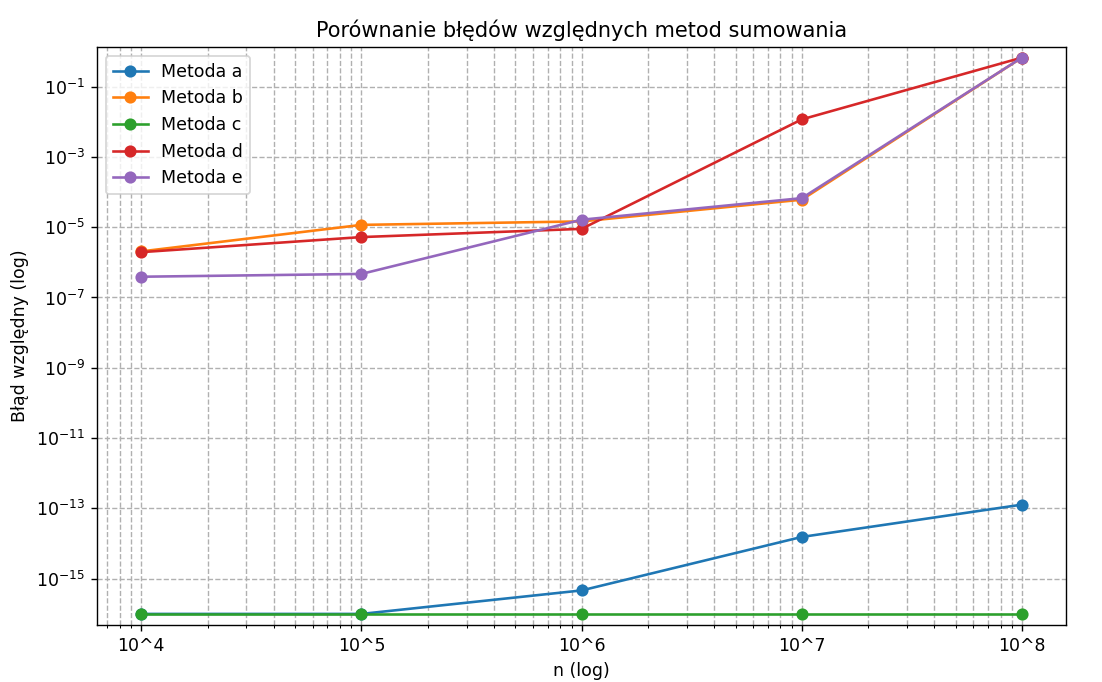
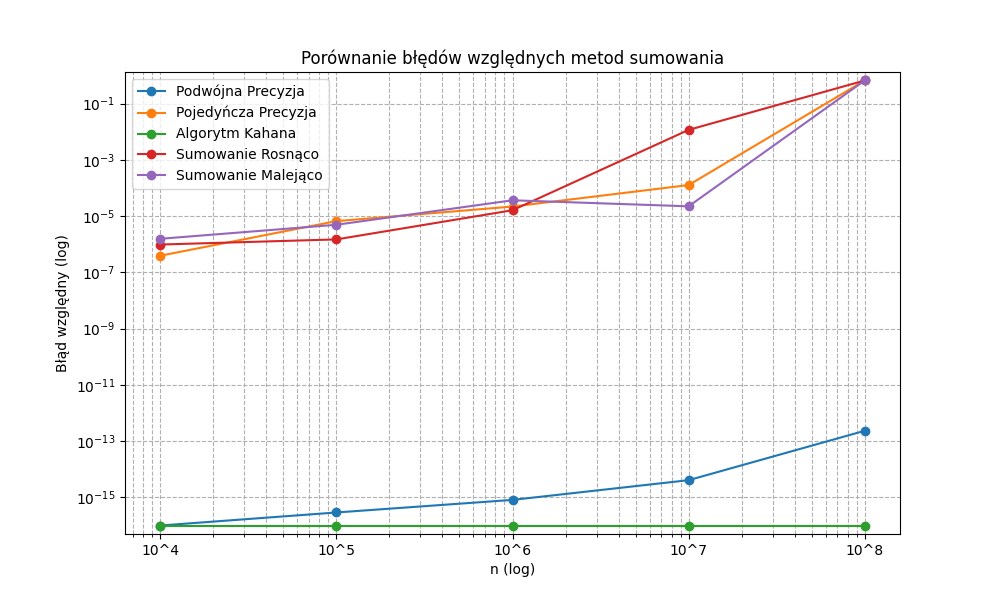
Added descriptions for graph in exe. 2

diff --git a/solutions/lab1/different_sums.py b/solutions/lab1/different_sums.py
@@ -45,7 +45,7 @@ max_n = n_array[-1]
 
 numbers = generate_numbers(max_n)
 
-methods = ['a', 'b', 'c', 'd', 'e']
+methods = ['Podwójna Precyzja', 'Pojedyńcza Precyzja', 'Algorytm Kahana', 'Sumowanie Rosnąco', 'Sumowanie Malejąco']
 errors = {method: [] for method in methods}
 
 for n in n_array:
@@ -54,31 +54,31 @@ for n in n_array:
     print("Generated numbers")
 
     print("Generating task a...")
-    errors['a'].append(safe_sum(abs(sum_double_precision(subset) - true_sum) / true_sum))
+    errors['Podwójna Precyzja'].append(safe_sum(abs(sum_double_precision(subset) - true_sum) / true_sum))
     print("Done...")
 
     print("Generating task b...")
-    errors['b'].append(safe_sum(abs(sum_single_precision(subset) - true_sum) / true_sum))
+    errors['Pojedyńcza Precyzja'].append(safe_sum(abs(sum_single_precision(subset) - true_sum) / true_sum))
     print("Done...")
 
     print("Generating task c...")
     kahan_error = safe_sum(abs(sum_kahan_alg(subset) - true_sum) / true_sum)
-    errors['c'].append(kahan_error if kahan_error > 0 else 1e-20)
+    errors['Algorytm Kahana'].append(kahan_error if kahan_error > 0 else 1e-20)
     print("Done...")
 
     print("Generating task d...")
-    errors['d'].append(safe_sum(abs(sum_rising(subset) - true_sum) / true_sum))
+    errors['Sumowanie Rosnąco'].append(safe_sum(abs(sum_rising(subset) - true_sum) / true_sum))
     print("Done...")
 
     print("Generating task e...")
-    errors['e'].append(safe_sum(abs(sum_falling(subset) - true_sum) / true_sum))
+    errors['Sumowanie Malejąco'].append(safe_sum(abs(sum_falling(subset) - true_sum) / true_sum))
     print("Done...")
 
     print("Done the subset of: ", n)
 
 plt.figure(figsize=(10, 6))
 for method in methods:
-    plt.loglog(n_array, errors[method], 'o-', label=f'Metoda {method}')
+    plt.loglog(n_array, errors[method], 'o-', label=f'{method}')
 plt.xlabel('n (log)')
 plt.ylabel('Błąd względny (log)')
 plt.title('Porównanie błędów względnych metod sumowania')

diff --git a/solutions/lab1/README.md b/solutions/lab1/README.md
@@ -343,6 +343,7 @@ Na wykresie przedstawiono porównanie błędów względnych różnych metod sumo
 2. **Wnioski praktyczne:**
    - Dla małej próbki liczb zmiennoprzecinkowch można zastosować metodę a, która zapewnia dużą dokładność.
    - **Algorytm Kahana** jest dobrym rozwiązaniem szczególnie gdy operujemy na pojedyńczej precyzji (float32) wtedy błąd wychodzi bardzo bliski zeru (bez metody safe_sum program zwraca równo 0.0).
+   - Metoda pojedynczej precyzji oraz sumowanie zarówno w porządku malejącym jak i rosnącym wykazało dużo mniejszą precyzję w porównaniu do pozostałych metod.
 
 ## Zadanie 3: Unikanie zjawiska kancelacji
 
